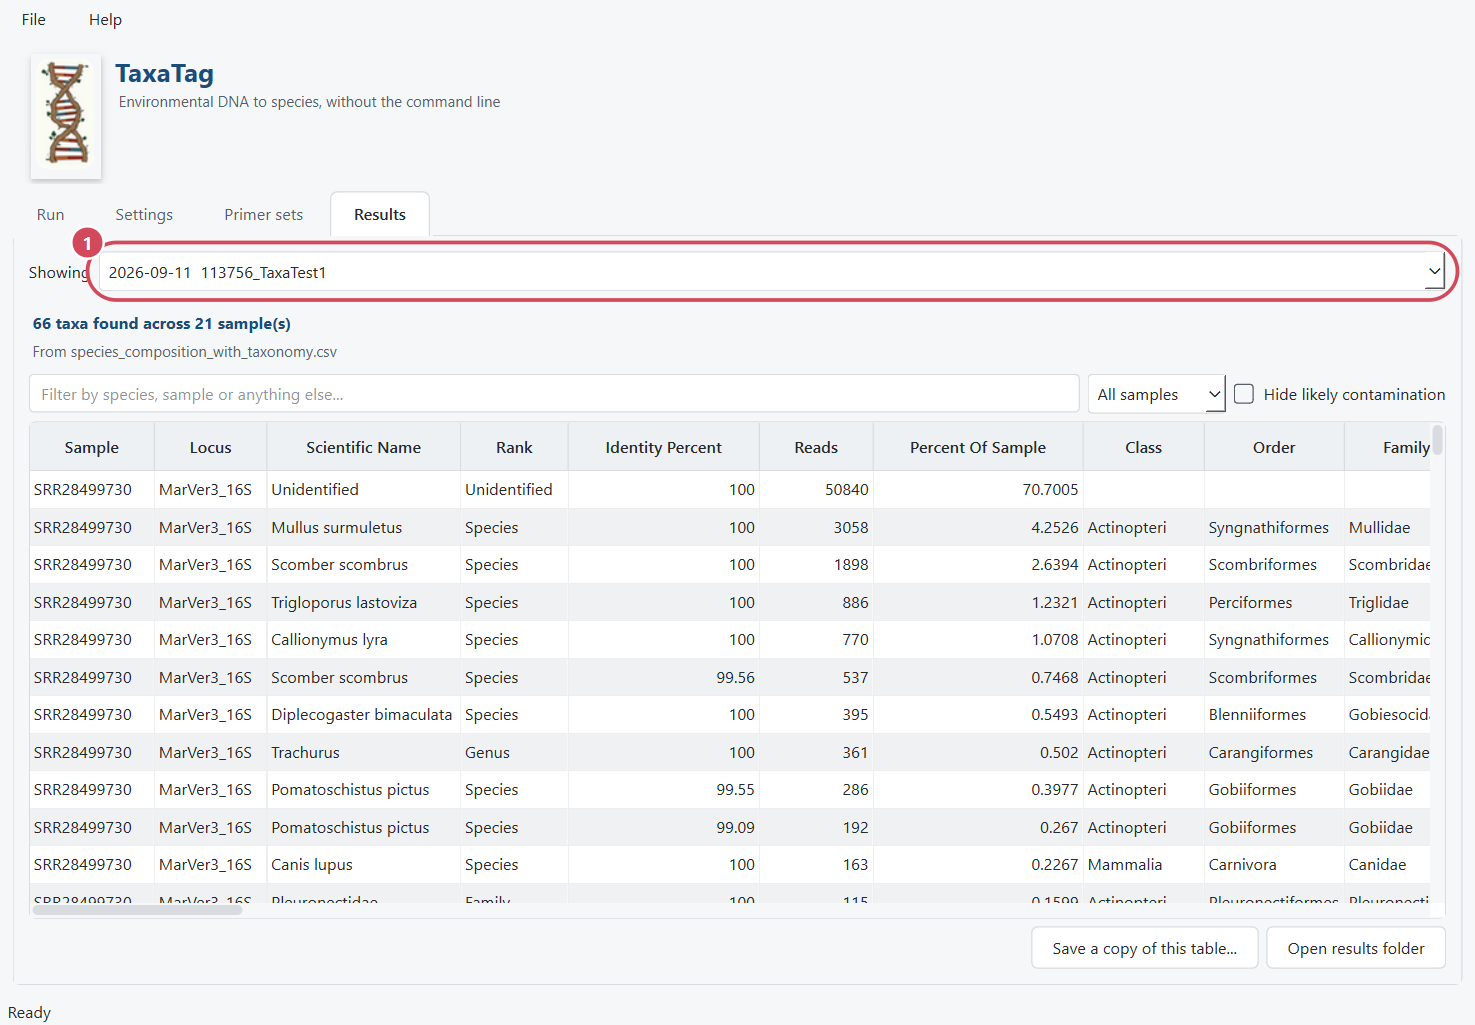
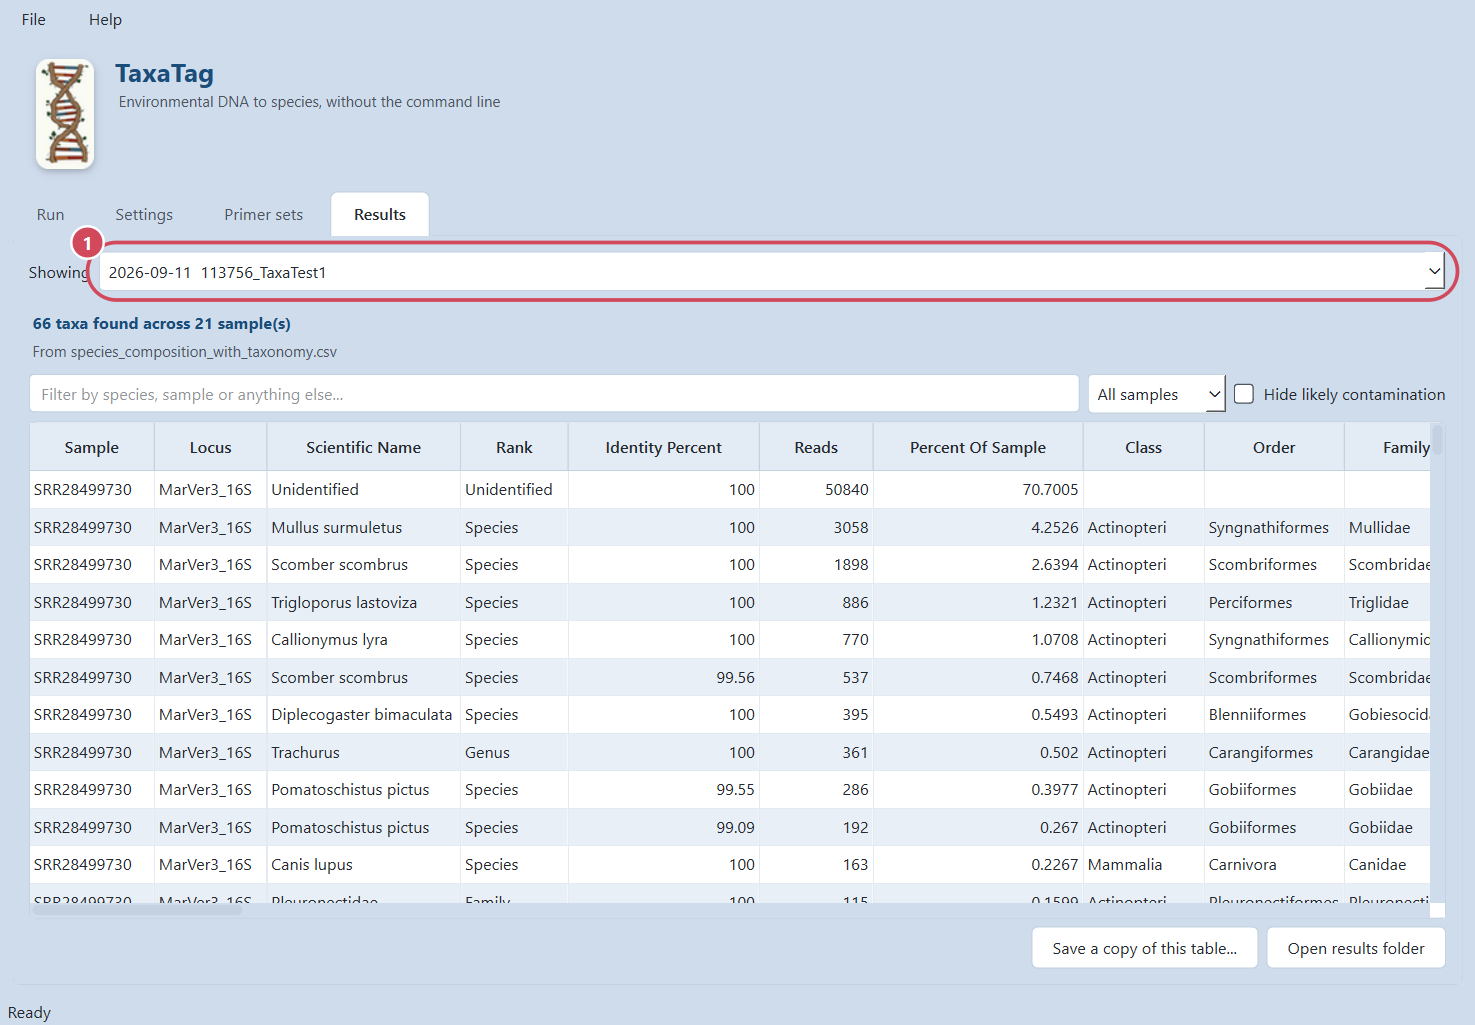
Put TaxaTag's blue on the ground behind the window

diff --git a/src/gui/theme.py b/src/gui/theme.py
@@ -50,19 +50,26 @@ DYSLEXIC_FILES = ("OpenDyslexic-Regular.otf", "OpenDyslexic-Bold.otf")
 # text-on-surface pair in both schemes meets WCAG AA (4.5:1) and
 # `tools/contrast.py` measures that - eyeballing a dark scheme is how a grey
 # ends up unreadable on a laptop in daylight.
+#
+# The ground - `background`, the colour behind everything - is TaxaTag's
+# blue, the blue of the base pairs in the emblem: a light steel blue in the
+# light scheme, navy in the dark. The panels, fields, tables and the log
+# stay white or near-black, so the blue frames the work without touching
+# anything that carries meaning (decisions/0025). The secondary surfaces
+# take the same tint so the scheme reads as one thing.
 PALETTES: Dict[str, Dict[str, str]] = {
     LIGHT: {
-        "background": "#f6f7f9",
+        "background": "#cfdcec",
         "panel": "#ffffff",
-        "panel_sunken": "#f0f1f3",      # disabled fields, the plan box
-        "header": "#eef1f4",            # table column headings
-        "gridline": "#eceef0",
-        "border": "#d8dce1",
-        "border_faint": "#e6e8eb",
+        "panel_sunken": "#e9eff6",      # disabled fields, the plan box
+        "header": "#e3ebf4",            # table column headings
+        "gridline": "#e3eaf2",
+        "border": "#c3d1e1",
+        "border_faint": "#dbe4ee",
         "text": "#24292f",
-        "muted": "#57606a",
+        "muted": "#4c555f",
         "text_disabled": "#9aa1a9",
-        "pressed": "#eef2f6",
+        "pressed": "#e3ebf4",
         "accent": "#1a4d7a",
         "accent_hover": "#215f96",
         "accent_pressed": "#143c60",
@@ -82,17 +89,17 @@ PALETTES: Dict[str, Dict[str, str]] = {
     # enough to read. Filled buttons carry dark text here, because a pale
     # accent under white lettering is the commonest dark-mode mistake.
     DARK: {
-        "background": "#15191f",
-        "panel": "#1e242c",
-        "panel_sunken": "#262d36",
-        "header": "#262d36",
-        "gridline": "#2c343e",
-        "border": "#3b434e",
-        "border_faint": "#2c343e",
+        "background": "#0c1a2e",
+        "panel": "#16243a",
+        "panel_sunken": "#1e2e47",
+        "header": "#1e2e47",
+        "gridline": "#27395a",
+        "border": "#33466a",
+        "border_faint": "#27395a",
         "text": "#e6edf3",
         "muted": "#9da7b3",
         "text_disabled": "#6b7580",
-        "pressed": "#2c343e",
+        "pressed": "#27395a",
         "accent": "#79b8ff",
         "accent_hover": "#94c7ff",
         "accent_pressed": "#5aa3f0",
@@ -400,6 +407,13 @@ QFrame#rule {{ color: {palette['border']}; }}
 
 QCheckBox {{ spacing: 8px; padding: 3px 0; }}
 
+/* Text sits on whatever is behind it. The QWidget rule above gives every
+   widget the ground colour, and a label inside a white panel was painting
+   a strip of ground across it - faint grey until the ground was blue. The
+   labels that carry their own box (the plan, computed values) set a
+   background of their own further down and win by specificity. */
+QLabel, QCheckBox, QRadioButton {{ background: transparent; }}
+
 /* Fusion outlines a check box with the window colour darkened, which on a
    dark window is darker than the dark: the box vanished from the primer
    table and from the warning that offers "don't ask again". Only the
@@ -411,7 +425,7 @@ QCheckBox::indicator:unchecked, QTableView::indicator:unchecked {{
     height: 14px;
     border: {px} solid {palette['muted']};
     border-radius: 3px;
-    background: {palette['background']};
+    background: {palette['panel']};
 }}
 
 QScrollArea {{ border: none; background: transparent; }}
